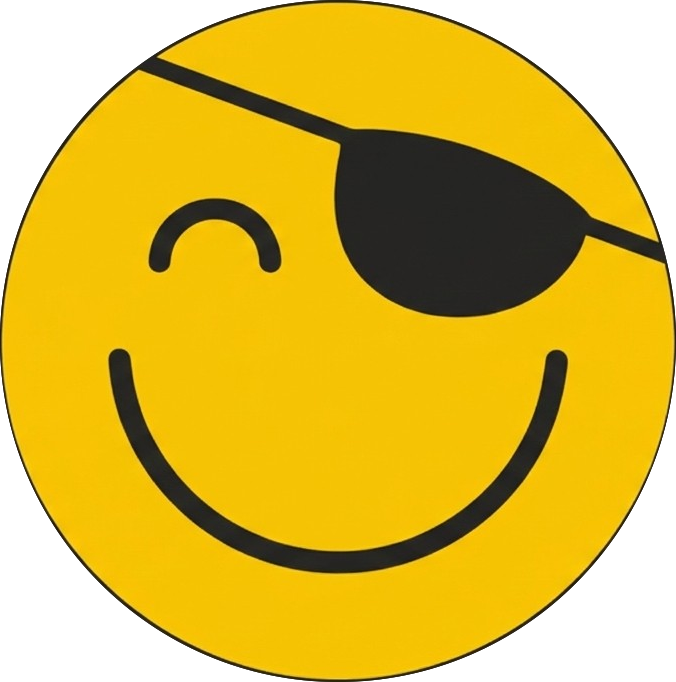
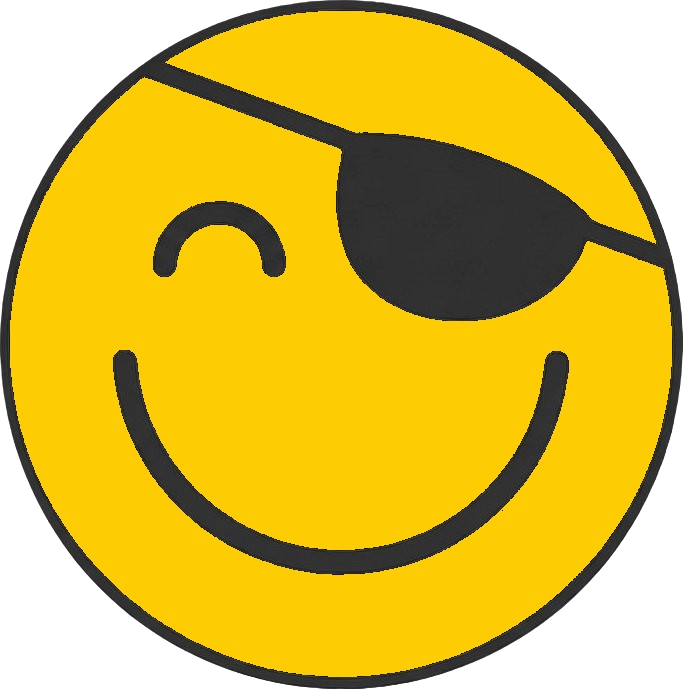
Patch: smooth wink crossfade, updated removebg yellow assets
Made-with: Cursor

diff --git a/web/components/DashboardAssistant.tsx b/web/components/DashboardAssistant.tsx
@@ -218,12 +218,16 @@ export default function DashboardAssistant() {
           animation: patchWinkInv 5s ease-in-out infinite;
         }
         @keyframes patchWink {
-          0%, 93%, 100% { opacity: 1; }
-          95.5%, 98% { opacity: 0; }
+          0%, 90%, 100% { opacity: 1; }
+          92% { opacity: 1; }
+          94% { opacity: 0; }
+          96% { opacity: 0; }
         }
         @keyframes patchWinkInv {
-          0%, 93%, 100% { opacity: 0; }
-          95.5%, 98% { opacity: 1; }
+          0%, 90%, 100% { opacity: 0; }
+          92% { opacity: 0; }
+          94% { opacity: 1; }
+          96% { opacity: 1; }
         }
       `}</style>
 
